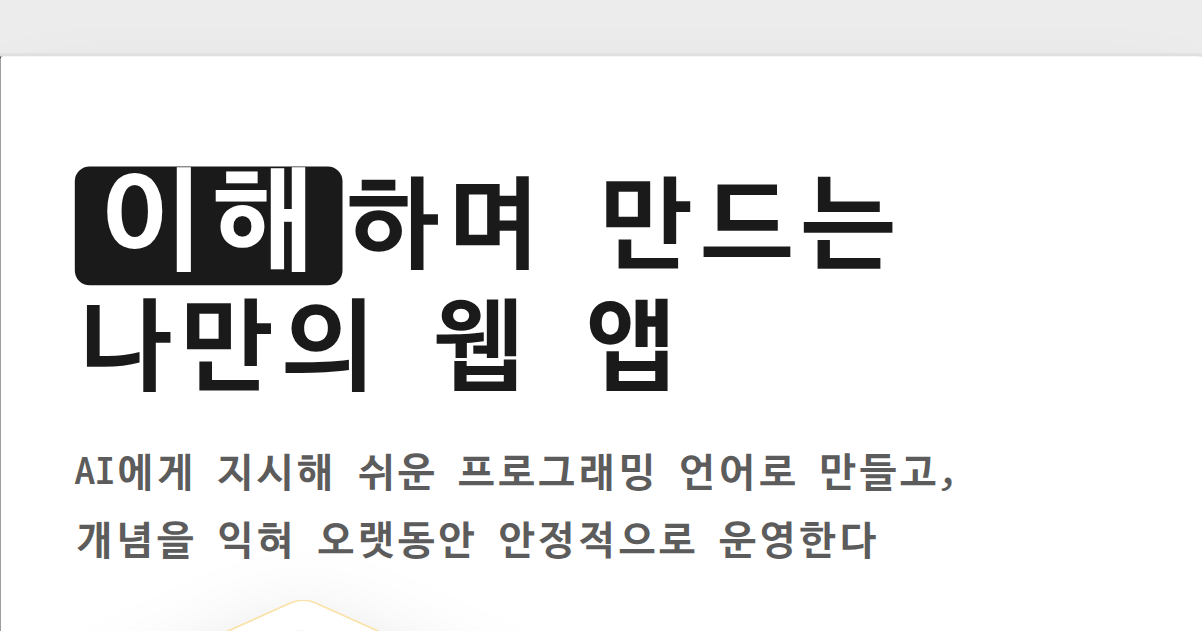
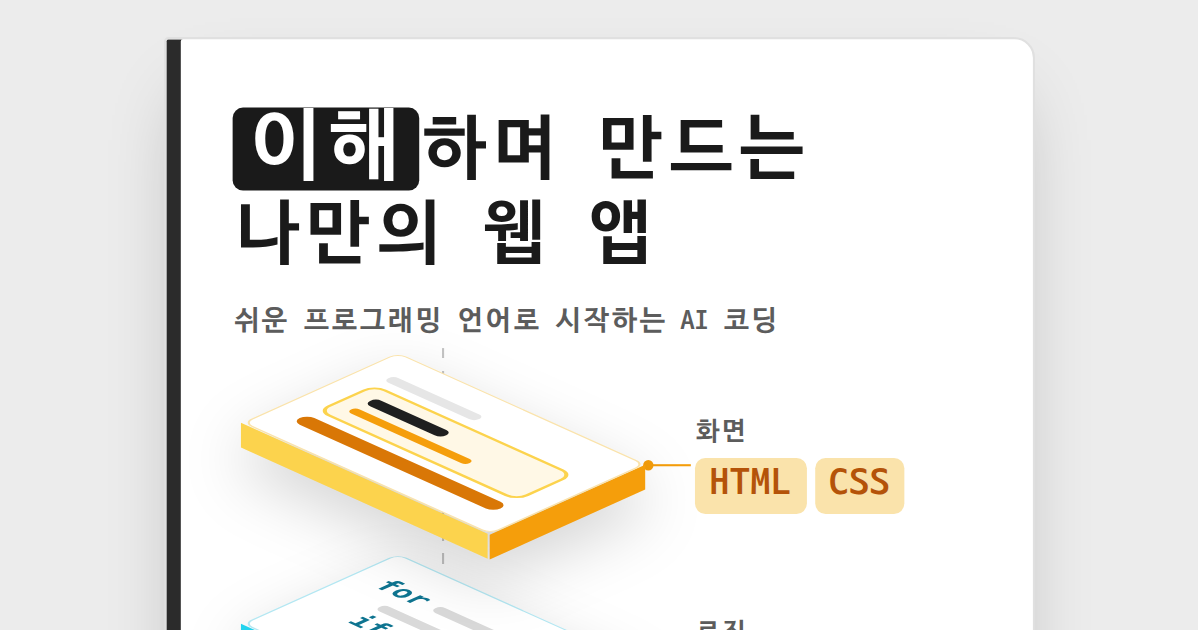
표지 그림을 분해 조립도로 고치고 OG 이미지가 제목을 자르던 문제를 바로잡는다
세 판이 서로 무관한 물건으로 읽히고 라벨이 어느 판의 것인지 그림이 말해 주지 않아,
기계 분해 조립도의 관례를 들여왔다. 판 뒤에 조립축을 파선으로 세우고 판마다
오른쪽 꼭짓점에서 라벨로 지시선과 점을 뻗는다. 축이 드러나도록 판끼리는 뾰족한
앞뒤 귀에서만 겹치게 다시 쌓았다.

아래쪽에 45px이 빈 채로 남던 것은 특징 세 줄을 10.5px에서 12px로 키워 메웠다.
홈 표지와 PDF 표지는 단위만 다른 같은 그림이라 양쪽을 함께 고쳤고,
모바일 미디어 쿼리도 판 치수 변수가 옮겨간 자리에 맞췄다.

OG 이미지는 제목 블록 높이에서 자를 폭을 역산하고 있었다. 부제가 한 줄로 짧아진
뒤로 카드보다 좁은 영역이 나와 제목 왼쪽이 잘려 나갔다. 가로가 카드 폭 밑으로
내려가지 않게 막고, 아래 경계를 첫 판에 맞춰 판과 라벨이 잘린 채 걸리지 않게 했다.

diff --git a/book-template/theme/custom.css b/book-template/theme/custom.css
@@ -692,7 +692,7 @@
 }
 
 .fc-book h1 {
-  margin: 6px 0 0;
+  margin: 2px 0 0;
   font-size: 34px;
   line-height: 1.22;
   font-weight: 700;
@@ -729,22 +729,75 @@
    scaleY(0.45)로 눕힌 평행사변형, 좌우 옆면은 그 아래 두 변에 맞춰
    skewY(±24.228deg)로 기울인 직사각형이다(눕힌 뒤 변의 기울기가 0.45 = tan 24.228°).
    윗면은 실제 요소(.fc-top)라 안에 각 층의 그림(motif)을 담고, 그림도 함께 눕는다.
-   그림이 가려지지 않도록 판끼리는 거의 겹치지 않게 쌓는다. */
+   그림이 가려지지 않도록 판끼리는 뾰족한 앞뒤 귀에서만 겹치게 쌓는다.
+
+   그림 전체는 기계 분해 조립도(exploded view)의 관례를 따른다. 세 판은 흩어진 부품이 아니라
+   한 덩어리를 축을 따라 뽑아낸 것이므로, 판 뒤에 조립축(파선)을 세우고 판마다 라벨로
+   지시선을 뻗는다. 이 책이 완성본 앱을 층으로 뜯어 읽는 순서와 같은 그림이다. */
 .fc-book-diagram {
-  margin: 8px 0 0;
+  position: relative;
+  margin: 6px 0 0;
   flex: none;
+  --pw: 203px; /* 판 하나가 차지하는 상자의 가로. 조립축을 그 한가운데 세운다 */
+}
+
+/* 조립축. 판이 덮지 않는 판과 판 사이에서만 드러나고, 위아래로 조금 비어져 나온다 */
+.fc-book-diagram::before {
+  content: '';
+  position: absolute;
+  z-index: 0;
+  left: calc(var(--pw) / 2);
+  top: -5px;
+  bottom: -7px;
+  width: 1.5px;
+  margin-left: -0.75px;
+  background: repeating-linear-gradient(#c4c4c4 0 5px, transparent 5px 11px);
 }
 
 .fc-layer {
   position: relative;
   display: flex;
   align-items: center;
-  gap: 13px;
-  height: 97px;
+  gap: 20px;
+  height: 95px;
+  --sw: 169px; /* 윗면 직사각형 가로 */
+  --sh: 106px; /* 세로: 가로와 16:10(모니터 비율) */
+  --t: 12px; /* 판 두께 */
+  --dw: calc((var(--sw) + var(--sh)) * 0.3536); /* 윗면 반너비 */
+  --dh: calc((var(--sw) + var(--sh)) * 0.1591); /* 윗면 반높이 */
+  --ldrop: calc((var(--sh) - var(--sw)) * 0.1591); /* 왼쪽 꼭짓점의 중심 대비 높이 */
+  --rv: calc(0px - var(--ldrop) - var(--t) / 2); /* 오른쪽 꼭짓점의 행 중심 대비 높이 */
+  --lead: 21px; /* 지시선 길이. 판과 라벨 사이 간격(gap)보다 조금 길어 라벨에 닿는다 */
 }
 
+/* 판끼리는 뾰족한 앞뒤 귀에서만 겹친다. 한가운데는 조립축이 한 마디 넘게 드러날 만큼 벌어진다 */
 .fc-layer + .fc-layer {
-  margin-top: -12px;
+  margin-top: 2px;
+}
+
+/* 지시선과 그 끝의 점. 판의 오른쪽 꼭짓점에서 라벨까지 뻗어 라벨이 어느 판의 것인지 묶는다.
+   색은 그 층의 짙은 옆면 색이라, 여기서도 색은 층을 구분하는 데만 쓴다. */
+.fc-layer::before,
+.fc-layer::after {
+  content: '';
+  position: absolute;
+  z-index: 0;
+  left: calc(var(--pw) - 3px);
+  top: calc(50% + var(--rv));
+  background: var(--lc-r);
+}
+
+.fc-layer::before {
+  width: var(--lead);
+  height: 1.5px;
+  margin-top: -0.75px;
+}
+
+.fc-layer::after {
+  width: 5px;
+  height: 5px;
+  margin: -2.5px 0 0 -2.5px;
+  border-radius: 50%;
 }
 
 /* 위 판의 아랫귀가 아래 판을 덮어야 쌓인 모양이 된다 */
@@ -754,16 +807,11 @@
 
 .fc-plane {
   position: relative;
+  z-index: 1;
   flex: none;
-  width: 197px;
+  width: var(--pw);
   height: 100%;
   filter: drop-shadow(0 11px 15px rgba(0, 0, 0, 0.16));
-  --sw: 168px;                                       /* 윗면 직사각형 가로 */
-  --sh: 105px;                                       /* 세로: 가로와 16:10(모니터 비율) */
-  --t: 12px;                                         /* 판 두께 */
-  --dw: calc((var(--sw) + var(--sh)) * 0.3536);      /* 윗면 반너비 */
-  --dh: calc((var(--sw) + var(--sh)) * 0.1591);      /* 윗면 반높이 */
-  --ldrop: calc((var(--sh) - var(--sw)) * 0.1591);   /* 왼쪽 꼭짓점의 중심 대비 높이 */
 }
 
 .fc-top {
@@ -946,8 +994,12 @@
 }
 
 /* 행간을 죄어 이름과 기술이 한 묶음으로 읽히게 한다(본문 행간을 그대로 상속하면
-   기술 라벨이 자기 층보다 다음 층 이름에 더 가까워 보인다) */
+   기술 라벨이 자기 층보다 다음 층 이름에 더 가까워 보인다).
+   행의 한가운데가 아니라 지시선이 나오는 오른쪽 꼭짓점 높이에 맞춘다. */
 .fc-layer-label {
+  position: relative;
+  z-index: 1;
+  top: var(--rv);
   display: flex;
   flex-direction: column;
   align-items: flex-start;
@@ -980,12 +1032,14 @@
   color: var(--lc-tech);
 }
 
+/* 이 책이 무엇을 해 주는지 밝히는 세 줄이라 표지에서 제목 다음으로 오래 읽힌다.
+   앞서 부제와 크기가 같으면 부제가 넷으로 늘어난 것처럼 보이므로 한 단계만 작게 둔다. */
 .fc-book-pitch {
-  margin: 10px 0 0;
+  margin: 14px 0 0;
   padding: 0;
   list-style: none;
-  font-size: 10.5px;
-  line-height: 1.75;
+  font-size: 12px;
+  line-height: 1.85;
   font-weight: 600;
   color: #5c5c5c;
   word-break: keep-all;
@@ -1006,7 +1060,7 @@
   align-items: flex-end;
   justify-content: flex-end;
   margin: auto 0 0;
-  padding-top: 10px;
+  padding-top: 12px;
   border-top: 1px solid #e6e6e6;
   font-size: 9px;
   font-weight: 700;
@@ -1166,23 +1220,21 @@
   }
 
   .fc-book-diagram {
-    margin: 7px 0 0;
+    margin: 5px 0 0;
+    --pw: 175px;
   }
 
   .fc-layer {
-    height: 79px;
-    gap: 11px;
+    height: 87px;
+    gap: 16px;
+    --sw: 146px;
+    --sh: 91px;
+    --t: 10.5px;
+    --lead: 17px;
   }
 
   .fc-layer + .fc-layer {
-    margin-top: -10px;
-  }
-
-  .fc-plane {
-    width: 157px;
-    --sw: 134px;
-    --sh: 84px;
-    --t: 10px;
+    margin-top: 2px;
   }
 
   .fc-top {
@@ -1217,8 +1269,8 @@
   }
 
   .fc-book-pitch {
-    margin-top: 9px;
-    font-size: 9px;
+    margin-top: 11px;
+    font-size: 10.5px;
   }
 
   .fc-book-footer {

diff --git a/book/CLAUDE.md b/book/CLAUDE.md
@@ -23,6 +23,9 @@
 - 로컬 확인: 저장소 루트의 `./run_book.sh`(의존성 설치까지 알아서 하고 http://localhost:5173/flashcard/ 를 띄운다). 손으로 하려면 `cd book-template && npm install`(최초 한 번) 후 `cd book && npm install && npm run dev` / 빌드 검증: `./run_book.sh build`(= `cd book && npm run build`, 깨진 링크 포함 검증)
 - 테마: `book-template/theme/custom.css` — 본문 명조(Noto Serif KR)·제목 고딕, 행간 2.05·양쪽 정렬, 인쇄용 CSS 포함. 한글 폰트가 없는 CI 러너 대비로 웹폰트 폴백을 둔다.
 - 표지 글꼴만 예외로 D2Coding이다(홈의 표지 카드와 PDF 표지). 폰트 파일과 라이선스·재생성 방법은 `book/public/fonts/`, `@font-face` 선언은 `book-template/lib/fonts.mjs`에 있다. 표지 바탕은 흰색·회색·검정으로 두고 색은 세 층을 구분하는 데만 쓴다(화면=HTML의 주황, 로직=Go의 시안, 데이터=보라).
+- 표지 그림은 세 층을 쌓은 아이소메트릭 판이고, **기계 분해 조립도(exploded view)의 관례**를 따른다(2026-08-05 정리). 판 뒤에 조립축을 파선으로 세워 세 판이 흩어진 부품이 아니라 한 덩어리를 축을 따라 뽑아낸 것임을 보이고, 판마다 오른쪽 꼭짓점에서 라벨로 지시선과 점을 뻗어 어느 라벨이 어느 판의 것인지 묶는다. 이 책이 완성본 앱을 층으로 뜯어 읽는 순서와 같은 그림이라 골랐다. 조립축이 드러나려면 판 사이가 벌어져 있어야 하므로, 판끼리는 뾰족한 앞뒤 귀에서만 겹치게 쌓는다. 조립축과 지시선은 무채색·층 색만 쓰므로 위의 색 규칙을 그대로 지킨다.
+- 홈 표지(`book-template/theme/custom.css`의 "홈 — 책 표지" 절)와 PDF 표지(`book-template/lib/cover.mjs`)는 단위만 다르고(px/mm) 같은 그림이다. **한쪽을 고치면 다른 쪽도 같이 고친다.** 판 치수는 `--sw`·`--sh`·`--t`에서 나머지가 계산되므로 이 셋만 맞추면 된다.
+- 표지를 고쳤으면 `npm run og`로 OG 이미지를 다시 만들고 `npm run build`를 한 번 더 돌린다(빌드 결과에 담기는 것은 재생성한 파일이다). OG 이미지는 홈 표지의 제목부터 첫 판까지를 잘라 쓰므로 표지 구성이 바뀌면 잘리는 자리도 바뀐다.
 - 이북 뷰어 레이아웃: `book-template/theme/Layout.vue`(DefaultTheme 확장). 목차는 왼쪽 하나뿐(오른쪽 아웃라인 없음), 상단 바 "목차" 버튼으로 접기/펼치기, 본문은 회색 배경 위 페이지 카드, 상단 읽기 진행 바, 좌우 화살표와 ←/→ 키로 장 이동. 홈(책 표지 랜딩)은 `book.config.mjs`의 cover 데이터에서 생성된다(홈 원고 파일은 없다).
 - PDF: `npm run pdf`(`book-template/lib/pdf.mjs`)가 표지·차례를 만들고 빌드 결과를 장 순서대로 인쇄해 `flashcard-book.pdf` 한 권으로 병합한다. CI(`book.yml`)가 매 배포마다 재생성한다.
 - 배포: GitHub Pages (https://benelog.github.io/flashcard/). `.github/workflows/book.yml`이 `book/**`·`book-template/**` 변경 push 시 자동 배포한다.
